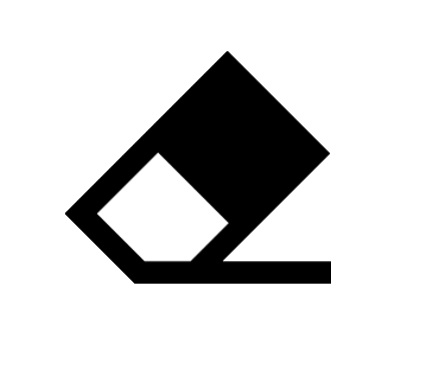
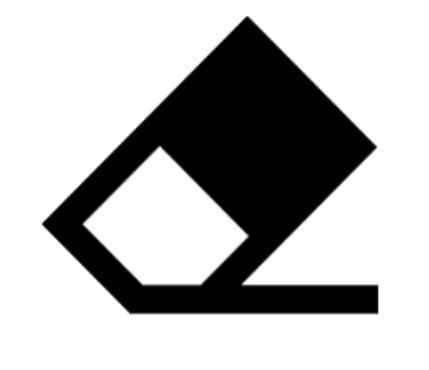
Images scale with number of keys on screen.

Changed region(s): [[0.0909, 0.0297, 0.9091, 0.8622]]

diff --git a/src/layout.py b/src/layout.py
@@ -140,6 +140,8 @@ class Layout(Piece):
 				self.shape_list = self.shape_list + shape_type + "," + str(ul[0]) + "," + str(ul[1]) + "," + str(br[0]) + "," + str(br[1]) + ","
 				x = (ul[0] + br[0])/2
 				y = (ul[1] + br[1])/2
+				width = br[0]-ul[0]
+				height = br[1]-ul[1]
 				# Handle images
 				if options[key_counter][0] == '#':
 					option = options[key_counter]
@@ -147,7 +149,7 @@ class Layout(Piece):
 					# Save the image handle as the option name
 					self._imagenames[key_counter] = option
 					# Create and draw the image
-					self.send_to(Uid.TKPIECE,Req.IMAGE,option+','+str(x)+','+str(y))
+					self.send_to(Uid.TKPIECE,Req.IMAGE,option+','+str(x)+','+str(y)+','+str(width*.5)+','+str(height*.5))
 				# Handle Text
 				else:			
 					self.send_to(Uid.TKPIECE,Req.CREATE,'text,key'+str(key_counter)+','+str(x)+','+str(y))
@@ -157,7 +159,7 @@ class Layout(Piece):
 					if (key_counter == (n-1) and self._change_font == True):
 						# only emit signal based on the dimensions of the last key (always the smallest)
 						self._change_font = False
-						self.send_to(Uid.TKPIECE,Msg.FONTSIZE,'key'+str(key_counter)+','+str((br[1]-ul[1])))
+						self.send_to(Uid.TKPIECE,Msg.FONTSIZE,'key'+str(key_counter)+','+str(height))
 				j+=1
 				key_counter += 1
 			i+=1

diff --git a/src/tkpiece.py b/src/tkpiece.py
@@ -64,12 +64,18 @@ class TkPiece(Piece,Frame):
 
 	def _ON_image(self,data):
 		try:
-			image_file,x,y = data.split(',')
+			
+			image_file,x,y,w,h = data.split(',')
+
+			w = int(float(w)*self._w)
+			h = int(float(h)*self._h)
+
 			#TODO This is a lazy and stupid way to load images
 			try:
 				image = Image.open(IMAGE_PATH+image_file+'.png')
 			except IOError:
 				image = Image.open(IMAGE_PATH+image_file+'.jpg')
+			image = image.resize((h,h), Image.ANTIALIAS)
 			photo = ImageTk.PhotoImage(image)
 			self._images[image_file] = photo
 			x = int(self._w*float(x))
@@ -282,6 +288,7 @@ class TkPiece(Piece,Frame):
 			'@tkpiece text key1,i',
 			'@tkpiece text key2,r',
 			'@tkpiece text key3,o',
+			'@tkpiece image test,0.5,0.5,1,1',
 			'@tkpiece stop'
 		]
 		return Script(text_entry)
